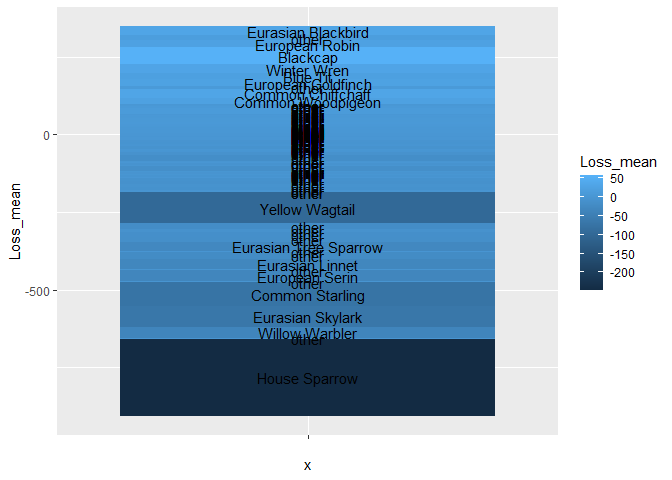
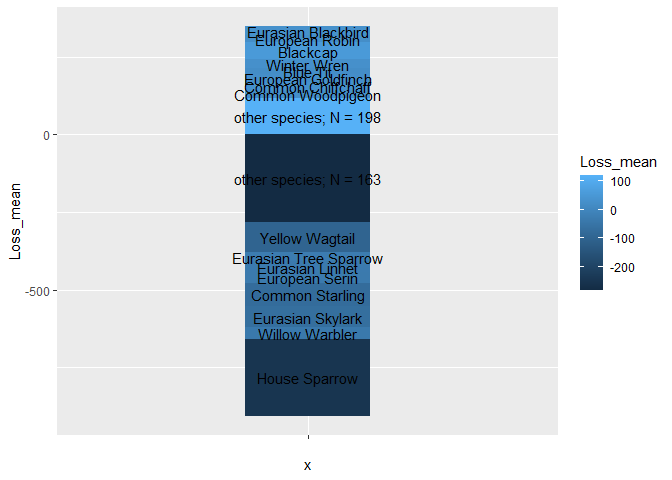
Further additions to a complete dataframe. Now only Visualization is missing.

diff --git a/Projects/jasmin-schels/Jasmins_Project_By_Christian.md b/Projects/jasmin-schels/Jasmins_Project_By_Christian.md
@@ -8,8 +8,6 @@ positive values now mean a gain in population instead of a loss and
 rounded the values to full values. Now, mean, SD and median values
 represent the gains/losses of that specific species across Europe.
 
-    library(tidyverse)
-
     ## Warning: Paket 'stringr' wurde unter R Version 4.3.0 erstellt
 
     ## ── Attaching core tidyverse packages ──────────────────────── tidyverse 2.0.0 ──
@@ -22,25 +20,6 @@ represent the gains/losses of that specific species across Europe.
     ## ✖ dplyr::filter() masks stats::filter()
     ## ✖ dplyr::lag()    masks stats::lag()
     ## ℹ Use the ]8;;http://conflicted.r-lib.org/conflicted package]8;; to force all conflicts to become errors
-
-    library(readxl)
-    df <- read_csv("https://zenodo.org/record/5544548/files/EU%20birds%20decline%20overall%20in%20line%20with%20global%20patterns_species_results.csv?download=1", show_col_types = FALSE)
-
-    # Some Data Documentation
-
-    # species: species accepted latin name in HBW and BirdLife International (2019)
-
-    # common_name: species common name in English
-
-    # Loss_mean: Mean loss of individuals (1980-2017)
-    # Loss_sd: Standard deviation of mean loss of individuals 
-    # Loss_med: Median loss of individuals (1980-2017)
-
-    # total_proportional_change: Proportional change 1980:2017
-    # annual rate of change:        Annual rate of change 1980:2017
-
-    # population_trend_long:        a categorical assessment of the long-term trend in national species abundance: (I) Increasing, (D) Decreasing, (F) Fluctuating around zero, (U) Uncertain, (UNK) Unknown, or (S) Stable.
-    df$`annual rate of change`
 
     ##   [1] 0.9961543 0.9645488 1.0180385 1.0720973 0.9888308 1.0001834 1.0290858
     ##   [8] 1.0568908 1.0078788 0.9891875 1.0244488 0.9863606 1.0163254 0.9988304
@@ -96,26 +75,6 @@ represent the gains/losses of that specific species across Europe.
     ## [358] 0.9973041 1.0018767 1.0004504 1.0005207 0.9778347 1.0168507 0.9982501
     ## [365] 0.9756691 1.0229197 1.0075593 1.0128213 0.9802128 1.0095203 0.9877036
     ## [372] 1.0132114 1.0277397 1.0067056 1.0037422 1.0072260 0.9997471 0.9806326
-
-    df_reduced <- subset(df, select = c(species, common_name, Loss_mean, Loss_sd, Loss_med, total_proportional_change, `annual rate of change`))
-    list <- c("Loss_mean", "Loss_sd", "Loss_med")
-    for (i in list) {
-      df_reduced[i] <- round(df_reduced[i],1)
-      
-    }
-    list <- c("total_proportional_change", "annual rate of change")
-    for (i in list) {
-      df_reduced[i] <- round(df_reduced[i],3)
-      
-    }
-    # Since the dataframe is orientated in Losses, it is somewhat confusing, since negative values mean population growth, while positive values equal a decline --> reframe the dataset
-    bird <- df_reduced
-
-    flip <- function(x){
-      x*(-1)
-    }
-    bird<-bird|>mutate(across(c(Loss_mean, Loss_sd, Loss_med), flip))
-    knitr::kable(head(bird[1:20,]))
 
 <table>
 <colgroup>
@@ -205,46 +164,121 @@ than these two species, into a “other” category. To accomplish this, we
 have to create a new variable, that copies the name of the species if it
 is outside the range specified, or changes its name to “other”.
 
-    # match("Cyanistes caeruleus",bird$species)
-    # match("Passer montanus", bird$species)     #only needed to find index position: 370 & 353 
-    x1<-print(bird$Loss_mean[370])
-
     ## [1] 19141749
 
-    x2<-print(bird$Loss_mean[353])
-
     ## [1] -29831444
-
-    x=0
-    for (i in bird$Loss_mean) {
-      x=x+1
-      if (x1>i & x2<i){
-        bird$category_name[x]<-"other"
-        bird$category_species[x]<-"other"
-      } else {
-        bird$category_name[x]<-bird$common_name[x]
-        bird$category_species[x]<-bird$species[x]
-        }
-    }
 
     ## Warning: Unknown or uninitialised column: `category_name`.
 
     ## Warning: Unknown or uninitialised column: `category_species`.
 
+    ## [1] "mean(test2$Loss_mean)\nmean(test2$Loss_med)\nnrow(test2)"
+
+    ## [1] "mean(test3$Loss_mean)\nmean(test3$Loss_med)\nnrow(test3)"
+
+<table>
+<thead>
+<tr class="header">
+<th style="text-align: right;">Loss_mean</th>
+<th style="text-align: right;">Loss_med</th>
+<th style="text-align: left;">category_name</th>
+</tr>
+</thead>
+<tbody>
+<tr class="odd">
+<td style="text-align: right;">-280.8</td>
+<td style="text-align: right;">-281.3</td>
+<td style="text-align: left;">other species; N = 163</td>
+</tr>
+<tr class="even">
+<td style="text-align: right;">118.7</td>
+<td style="text-align: right;">114.4</td>
+<td style="text-align: left;">other species; N = 198</td>
+</tr>
+<tr class="odd">
+<td style="text-align: right;">-98.2</td>
+<td style="text-align: right;">-97.0</td>
+<td style="text-align: left;">Yellow Wagtail</td>
+</tr>
+<tr class="even">
+<td style="text-align: right;">-29.8</td>
+<td style="text-align: right;">-29.7</td>
+<td style="text-align: left;">Eurasian Tree Sparrow</td>
+</tr>
+<tr class="odd">
+<td style="text-align: right;">-33.8</td>
+<td style="text-align: right;">-33.7</td>
+<td style="text-align: left;">Eurasian Linnet</td>
+</tr>
+<tr class="even">
+<td style="text-align: right;">-35.1</td>
+<td style="text-align: right;">-34.9</td>
+<td style="text-align: left;">European Serin</td>
+</tr>
+<tr class="odd">
+<td style="text-align: right;">21.4</td>
+<td style="text-align: right;">21.3</td>
+<td style="text-align: left;">Common Woodpigeon</td>
+</tr>
+<tr class="even">
+<td style="text-align: right;">-75.1</td>
+<td style="text-align: right;">-74.6</td>
+<td style="text-align: left;">Common Starling</td>
+</tr>
+<tr class="odd">
+<td style="text-align: right;">29.7</td>
+<td style="text-align: right;">29.4</td>
+<td style="text-align: left;">Common Chiffchaff</td>
+</tr>
+<tr class="even">
+<td style="text-align: right;">23.6</td>
+<td style="text-align: right;">22.7</td>
+<td style="text-align: left;">European Goldfinch</td>
+</tr>
+<tr class="odd">
+<td style="text-align: right;">-68.1</td>
+<td style="text-align: right;">-68.0</td>
+<td style="text-align: left;">Eurasian Skylark</td>
+</tr>
+<tr class="even">
+<td style="text-align: right;">19.1</td>
+<td style="text-align: right;">19.0</td>
+<td style="text-align: left;">Blue Tit</td>
+</tr>
+<tr class="odd">
+<td style="text-align: right;">-36.9</td>
+<td style="text-align: right;">-36.9</td>
+<td style="text-align: left;">Willow Warbler</td>
+</tr>
+<tr class="even">
+<td style="text-align: right;">28.8</td>
+<td style="text-align: right;">28.2</td>
+<td style="text-align: left;">Winter Wren</td>
+</tr>
+<tr class="odd">
+<td style="text-align: right;">55.2</td>
+<td style="text-align: right;">54.9</td>
+<td style="text-align: left;">Blackcap</td>
+</tr>
+<tr class="even">
+<td style="text-align: right;">22.2</td>
+<td style="text-align: right;">21.9</td>
+<td style="text-align: left;">European Robin</td>
+</tr>
+<tr class="odd">
+<td style="text-align: right;">29.5</td>
+<td style="text-align: right;">29.2</td>
+<td style="text-align: left;">Eurasian Blackbird</td>
+</tr>
+<tr class="even">
+<td style="text-align: right;">-247.3</td>
+<td style="text-align: right;">-246.7</td>
+<td style="text-align: left;">House Sparrow</td>
+</tr>
+</tbody>
+</table>
+
 With the data frame assembled, now we can tackle the visualization.
-
-    library(RColorBrewer)
-
-    ## Warning: Paket 'RColorBrewer' wurde unter R Version 4.3.0 erstellt
-
-    bird$x<-1
-    bird|>
-      mutate(across(c(Loss_mean, Loss_sd, Loss_med), function(x)(x/1000000)))|>
-      group_by(category_name)|>
-      ggplot(aes(x="",Loss_mean, fill=Loss_mean))+ 
-      geom_col()+
-      geom_text(aes(label = category_name), position = position_stack(vjust = 0.5))+
-      scale_color_gradient2()
 
 ![](Jasmins_Project_By_Christian_files/figure-markdown_strict/unnamed-chunk-3-1.png)
 
